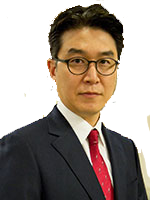
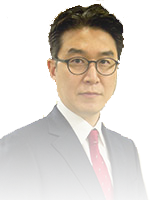
added rotating spikes
//I added a new class Spikes that displays rotating spikes on the map and I also added a photo of our lord and saviour Dr Kim. I also added new objects to the map "spikes" and "drKim"

diff --git a/core/src/com/epicsiege/game/Screens/PlayScreen.java b/core/src/com/epicsiege/game/Screens/PlayScreen.java
@@ -18,6 +18,7 @@ import com.badlogic.gdx.utils.viewport.Viewport;
 import com.epicsiege.game.MyGdxGame;
 import com.epicsiege.game.Scenes.Hud;
 import com.epicsiege.game.Sprites.Guy;
+import com.epicsiege.game.Sprites.Spikes;
 import com.epicsiege.game.Tools.B2WorldCreator;
 import com.epicsiege.game.Tools.WorldContactListener;
 
@@ -31,12 +32,16 @@ public class PlayScreen implements Screen{
     private MyGdxGame game;
 
     private TextureAtlas atlas;
+    private TextureAtlas atlasSpike;
 
     //play screen variables
     private OrthographicCamera gamecam;
     private Viewport gamePort;
     private Hud hud;
     private Guy player;
+
+    //our
+    private Spikes spikes, spikes2, spikes3, spikes4;
 
     //tiled map variables
     private TmxMapLoader maploader;
@@ -49,6 +54,10 @@ public class PlayScreen implements Screen{
 
     public PlayScreen(MyGdxGame game){
         atlas = new TextureAtlas("Hero_and_Enemies.pack");
+
+
+        //sprites for Spikes
+        atlasSpike = new TextureAtlas("Spikes.pack");
 
         this.game = game;
         //camera that follows player though the map.
@@ -70,16 +79,30 @@ public class PlayScreen implements Screen{
         world = new World(new Vector2(0, -10 ), true);
         b2dr = new Box2DDebugRenderer();
 
+        //changed from new B2WorldCreator(map, world); to newB2WorldCreator(this);
+        //also edited constructor in B2WorldCreator class.
         new B2WorldCreator(world, map);
 
         //Gets our Avatar (Guy)
-        player = new Guy(world, this);
+        player = new Guy(world,this);
+
+        //creates Spikes in our map.
+        spikes = new Spikes(world, this, .32f, .32f, 1);
+        spikes2 = new Spikes(world, this, .32f, .32f, 2);
+        spikes3 = new Spikes(world, this, .32f, .32f, 3);
+        spikes4 = new Spikes(world, this, .32f, .32f, 4);
+
 
         world.setContactListener(new WorldContactListener());
     }
 
     public TextureAtlas getAtlas() {
         return atlas;
+    }
+
+    //NEW
+    public TextureAtlas getAtlasSpike() {
+        return atlasSpike;
     }
 
     @Override
@@ -106,7 +129,6 @@ public class PlayScreen implements Screen{
         if (Gdx.input.isKeyJustPressed(Input.Keys.SPACE))
             player.b2body.applyForce(new Vector2(0f, 0.1f), player.b2body.getWorldCenter(), true);
 
-
     }
 
 
@@ -120,6 +142,11 @@ public class PlayScreen implements Screen{
         world.step(1/60f, 6, 2);
 
         player.update(dt);
+        spikes.update(dt);
+        spikes2.update(dt);
+        spikes3.update(dt);
+        spikes4.update(dt);
+
         hud.update(dt);
 
         gamecam.position.x = player.b2body.getPosition().x;
@@ -147,6 +174,13 @@ public class PlayScreen implements Screen{
         game.batch.setProjectionMatrix(gamecam.combined);
         game.batch.begin();
         player.draw(game.batch);
+
+        //draws the spikes on the map
+        spikes.draw(game.batch);
+        spikes2.draw(game.batch);
+        spikes3.draw(game.batch);
+        spikes4.draw(game.batch);
+
         game.batch.end();
 
         game.batch.setProjectionMatrix(hud.stage.getCamera().combined);
@@ -157,6 +191,14 @@ public class PlayScreen implements Screen{
     public void resize(int width, int height) {
         gamePort.update(width, height);
 
+    }
+
+    public TiledMap getMap() {
+        return map;
+    }
+
+    public World getWorld () {
+        return world;
     }
 
     @Override

diff --git a/core/src/com/epicsiege/game/Sprites/Spikes.java b/core/src/com/epicsiege/game/Sprites/Spikes.java
@@ -1,0 +1,106 @@
+package com.epicsiege.game.Sprites;
+
+import com.badlogic.gdx.graphics.g2d.Sprite;
+import com.badlogic.gdx.graphics.g2d.TextureRegion;
+import com.badlogic.gdx.physics.box2d.Body;
+import com.badlogic.gdx.physics.box2d.BodyDef;
+import com.badlogic.gdx.physics.box2d.CircleShape;
+import com.badlogic.gdx.physics.box2d.FixtureDef;
+import com.badlogic.gdx.physics.box2d.World;
+import com.badlogic.gdx.utils.Array;
+import com.epicsiege.game.MyGdxGame;
+import com.epicsiege.game.Screens.PlayScreen;
+
+
+/**
+ * Created by Joselito on 4/20/2018.
+ */
+
+
+public class Spikes  extends Sprite{
+
+    protected World world;
+    protected PlayScreen screen;
+
+    public Body b2body;
+
+    private float stateTime;
+    private com.badlogic.gdx.graphics.g2d.Animation<TextureRegion> spinAnimation;
+    private Array<TextureRegion> frames;
+
+
+
+    public Spikes (World world, PlayScreen screen, float x, float y, int a) {
+        this.world = world;
+        this.screen = screen;
+        setPosition(x,y);
+
+        SpikesDef(world, screen, x, y);
+
+        defineSpikes(a);
+
+
+    }
+
+    public void SpikesDef (World world, PlayScreen screen, float x, float y) {
+        //super(world, screen, x, y);
+        frames = new Array<TextureRegion>();
+        for (int i = 0; i < 7; i++)
+        {
+            frames.add(new TextureRegion(screen.getAtlasSpike().findRegion("Spikes"), i * 46, 0, 43, 152));//152
+        }
+        spinAnimation = new com.badlogic.gdx.graphics.g2d.Animation<TextureRegion>(0.4f, frames);
+        stateTime = 0;
+        //setBounds(getX(), getY(), 86 / MyGdxGame.PPM, 86 / MyGdxGame.PPM);
+        setBounds(getX(), getY(), 43 / MyGdxGame.PPM, 152 / MyGdxGame.PPM);
+    }
+
+
+    //protected abstract void defineSpikes();
+
+    protected void defineSpikes(int x) {
+
+        BodyDef bdef = new BodyDef();
+
+
+        switch (x) {
+            case 1:
+                 bdef.position.set(310 / MyGdxGame.PPM, 10 / MyGdxGame.PPM);
+                 break;
+            case 2:
+                bdef.position.set(385 / MyGdxGame.PPM, 10 / MyGdxGame.PPM);
+                break;
+            case 3:
+                bdef.position.set(1125 / MyGdxGame.PPM, 60 / MyGdxGame.PPM);
+                break;
+            default:
+                bdef.position.set(1550 / MyGdxGame.PPM, 60 / MyGdxGame.PPM);
+                break;
+        }
+
+        bdef.type = BodyDef.BodyType.DynamicBody;
+        b2body = world.createBody(bdef);
+
+
+        //Our collision detectors
+        FixtureDef fdef = new FixtureDef();
+        //Defines the physical components of our Avatar(Guy), our Guy is a sphere with a radius of 6.
+        CircleShape shape = new CircleShape();
+        shape.setRadius(2 / MyGdxGame.PPM);
+
+        fdef.filter.categoryBits = MyGdxGame.SPIKES_BIT;
+        fdef.filter.maskBits = MyGdxGame.DEFAULT_BIT;
+        fdef.shape = shape;
+
+
+
+        b2body.createFixture(fdef);
+
+    }
+
+    public void update (float dt) {
+        stateTime += dt;
+        setPosition(b2body.getPosition().x - getWidth() / 2, b2body.getPosition().y - getHeight() / 2);
+        setRegion(spinAnimation.getKeyFrame(stateTime, true));
+    }
+}

diff --git a/core/src/com/epicsiege/game/Sprites/Guy.java b/core/src/com/epicsiege/game/Sprites/Guy.java
@@ -160,6 +160,7 @@ public class Guy extends Sprite{
 
         //Our collision detectors
         FixtureDef fdef = new FixtureDef();
+        FixtureDef fdef1 = new FixtureDef();
         FixtureDef fdef2 = new FixtureDef();
         FixtureDef fdef3 = new FixtureDef();
         FixtureDef fdef4 = new FixtureDef();
@@ -170,19 +171,20 @@ public class Guy extends Sprite{
 
         //What our collision detectors can interact with.
         fdef.filter.categoryBits = MyGdxGame.GUY_BIT;
-        fdef.filter.maskBits = MyGdxGame.DEFAULT_BIT | MyGdxGame.TOKEN_BIT;
+        fdef.filter.maskBits =  MyGdxGame.TOKEN_BIT | MyGdxGame.DEFAULT_BIT;
+
+        fdef1.filter.categoryBits = MyGdxGame.GUY_BIT;
+        fdef1.filter.maskBits =  MyGdxGame.TOKEN_BIT;
         fdef2.filter.categoryBits = MyGdxGame.GUY_BIT;
-        fdef2.filter.maskBits = MyGdxGame.DEFAULT_BIT | MyGdxGame.TOKEN_BIT;
+        fdef2.filter.maskBits =  MyGdxGame.TOKEN_BIT;
         fdef3.filter.categoryBits = MyGdxGame.GUY_BIT;
-        fdef3.filter.maskBits = MyGdxGame.DEFAULT_BIT | MyGdxGame.TOKEN_BIT;
+        fdef3.filter.maskBits = MyGdxGame.TOKEN_BIT;
         fdef4.filter.categoryBits = MyGdxGame.GUY_BIT;
-        fdef4.filter.maskBits = MyGdxGame.DEFAULT_BIT | MyGdxGame.TOKEN_BIT;
+        fdef4.filter.maskBits = MyGdxGame.TOKEN_BIT;
 
 
         fdef.shape = shape;
-        fdef2.shape = shape;
-        fdef3.shape = shape;
-        fdef4.shape = shape;
+
 
         b2body.createFixture(fdef);
 
@@ -197,17 +199,17 @@ public class Guy extends Sprite{
         bodyb.set(new Vector2(-12 / MyGdxGame.PPM, 12 / MyGdxGame.PPM), new Vector2(-12 / MyGdxGame.PPM, -12 / MyGdxGame.PPM));
         bodyt.set(new Vector2(12 / MyGdxGame.PPM, 12 / MyGdxGame.PPM), new Vector2(-12 / MyGdxGame.PPM, 12 / MyGdxGame.PPM));
         bodybt.set(new Vector2(-12 / MyGdxGame.PPM, -12 / MyGdxGame.PPM), new Vector2(12 / MyGdxGame.PPM, -12 / MyGdxGame.PPM));
-        fdef.shape = bodyf;
+        fdef1.shape = bodyf;
         fdef2.shape = bodyb;
         fdef3.shape = bodyt;
         fdef4.shape = bodybt;
 
-        fdef.isSensor = true;
+        fdef1.isSensor = true;
         fdef2.isSensor = true;
         fdef3.isSensor = true;
         fdef4.isSensor = true;
 
-        b2body.createFixture(fdef).setUserData("body");
+        b2body.createFixture(fdef1).setUserData("body");
         b2body.createFixture(fdef2).setUserData("body");
         b2body.createFixture(fdef3).setUserData("body");
         b2body.createFixture(fdef4).setUserData("body");

diff --git a/core/src/com/epicsiege/game/Tools/B2WorldCreator.java b/core/src/com/epicsiege/game/Tools/B2WorldCreator.java
@@ -19,6 +19,8 @@ import com.epicsiege.game.Sprites.Tokens;
 public class B2WorldCreator {
 
     public B2WorldCreator(World world, TiledMap map) {
+       // World world = screen.getWorld();
+       // TiledMap map =screen.getMap();
         BodyDef bdef = new BodyDef();
         PolygonShape shape = new PolygonShape();
         FixtureDef fdef = new FixtureDef();
@@ -27,16 +29,16 @@ public class B2WorldCreator {
 
         //creates objects for our Tokens, so our Guy can interact with Tokens.
         //the 2 stands for the objects location on the Tile Editor.
-        for (MapObject object : map.getLayers().get(2).getObjects().getByType(RectangleMapObject.class)) {
+        for (MapObject object : map.getLayers().get(4).getObjects().getByType(RectangleMapObject.class)) {
             Rectangle rect = ((RectangleMapObject) object).getRectangle();
 
             //creates Tokens in our Map.
-            new Tokens(world, map, rect);
+            new Tokens(world, map , rect);
         }
 
         //creates objects for our Floor, so our Guy doesn't fall through to ground.
         //the 3 stands for the objects location on the Tile Editor.
-        for (MapObject object : map.getLayers().get(3).getObjects().getByType(RectangleMapObject.class)) {
+        for (MapObject object : map.getLayers().get(5).getObjects().getByType(RectangleMapObject.class)) {
             Rectangle rect = ((RectangleMapObject) object).getRectangle();
 
             //creates the floor though out our Map.

diff --git a/core/src/com/epicsiege/game/MyGdxGame.java b/core/src/com/epicsiege/game/MyGdxGame.java
@@ -15,6 +15,7 @@ public class MyGdxGame extends Game {
 	public static final short GUY_BIT = 2;
 	public static final short TOKEN_BIT = 4;
 	public static final short DESTROYED_BIT = 16;
+	public static final short SPIKES_BIT = 32;
 
 
 	public SpriteBatch batch;
